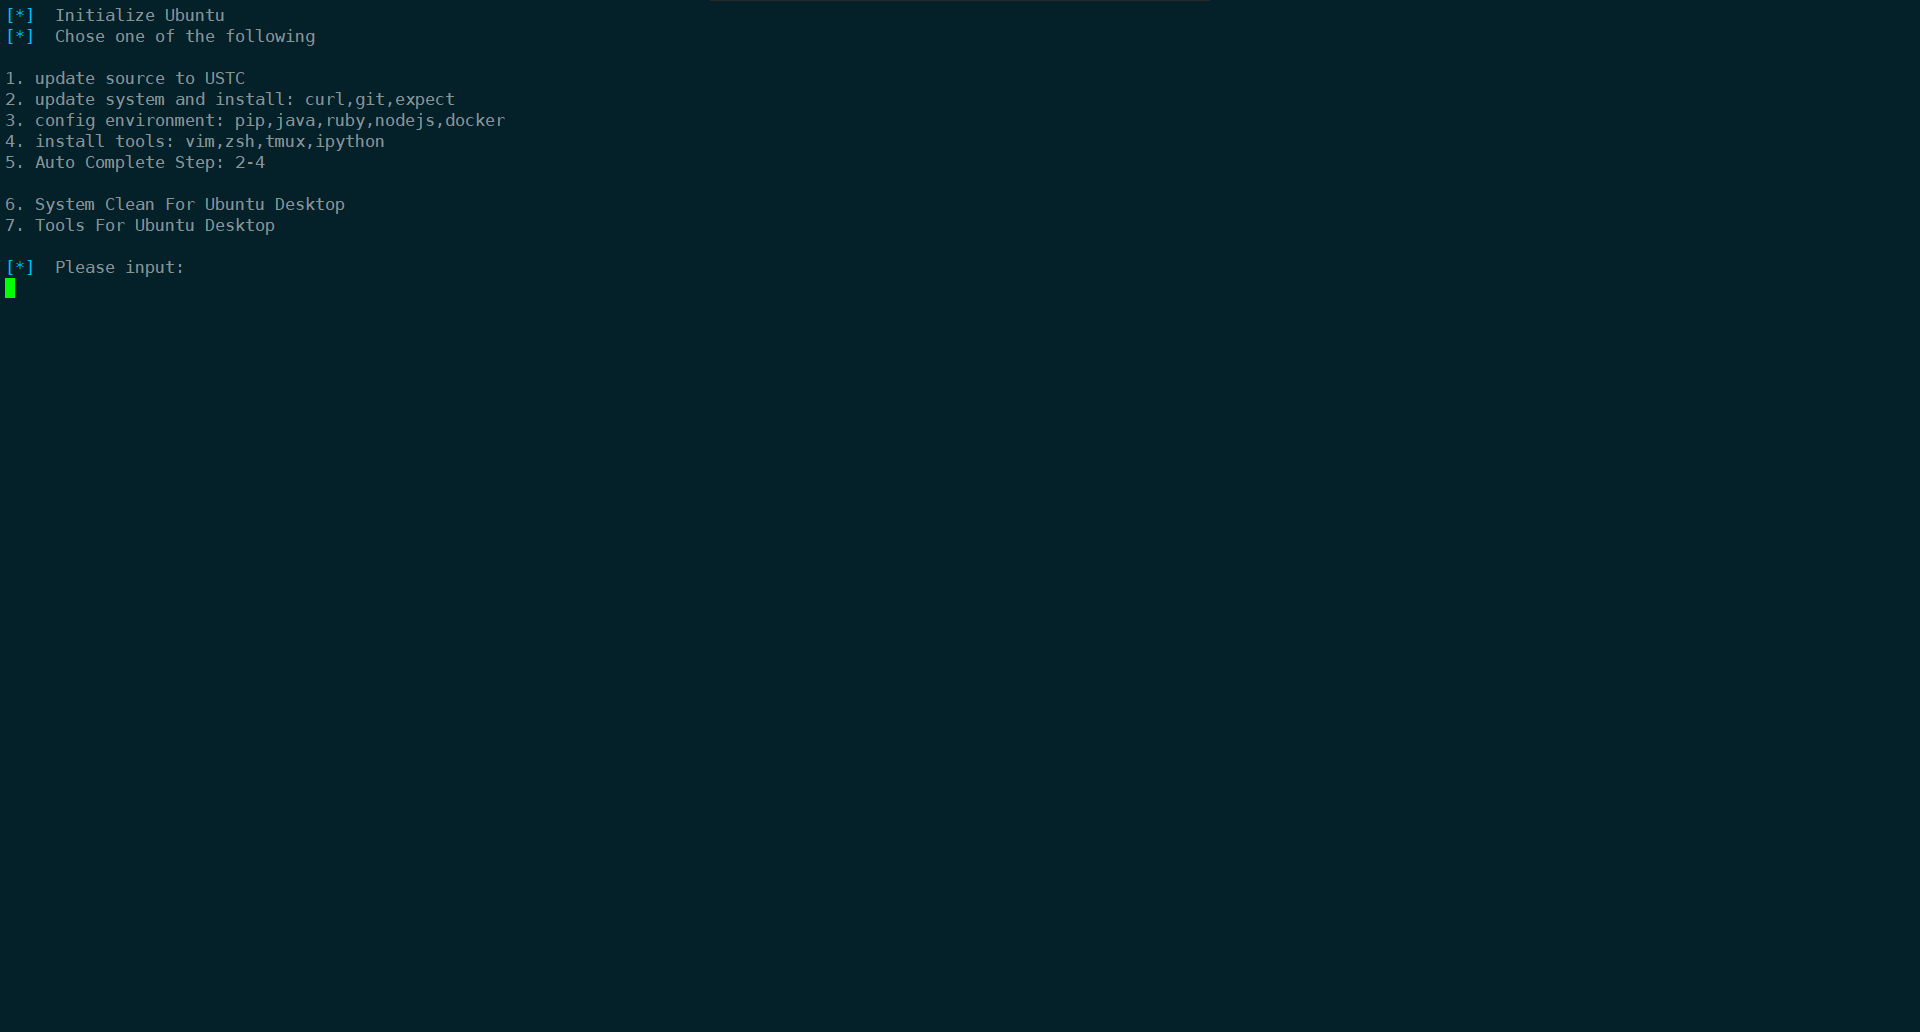
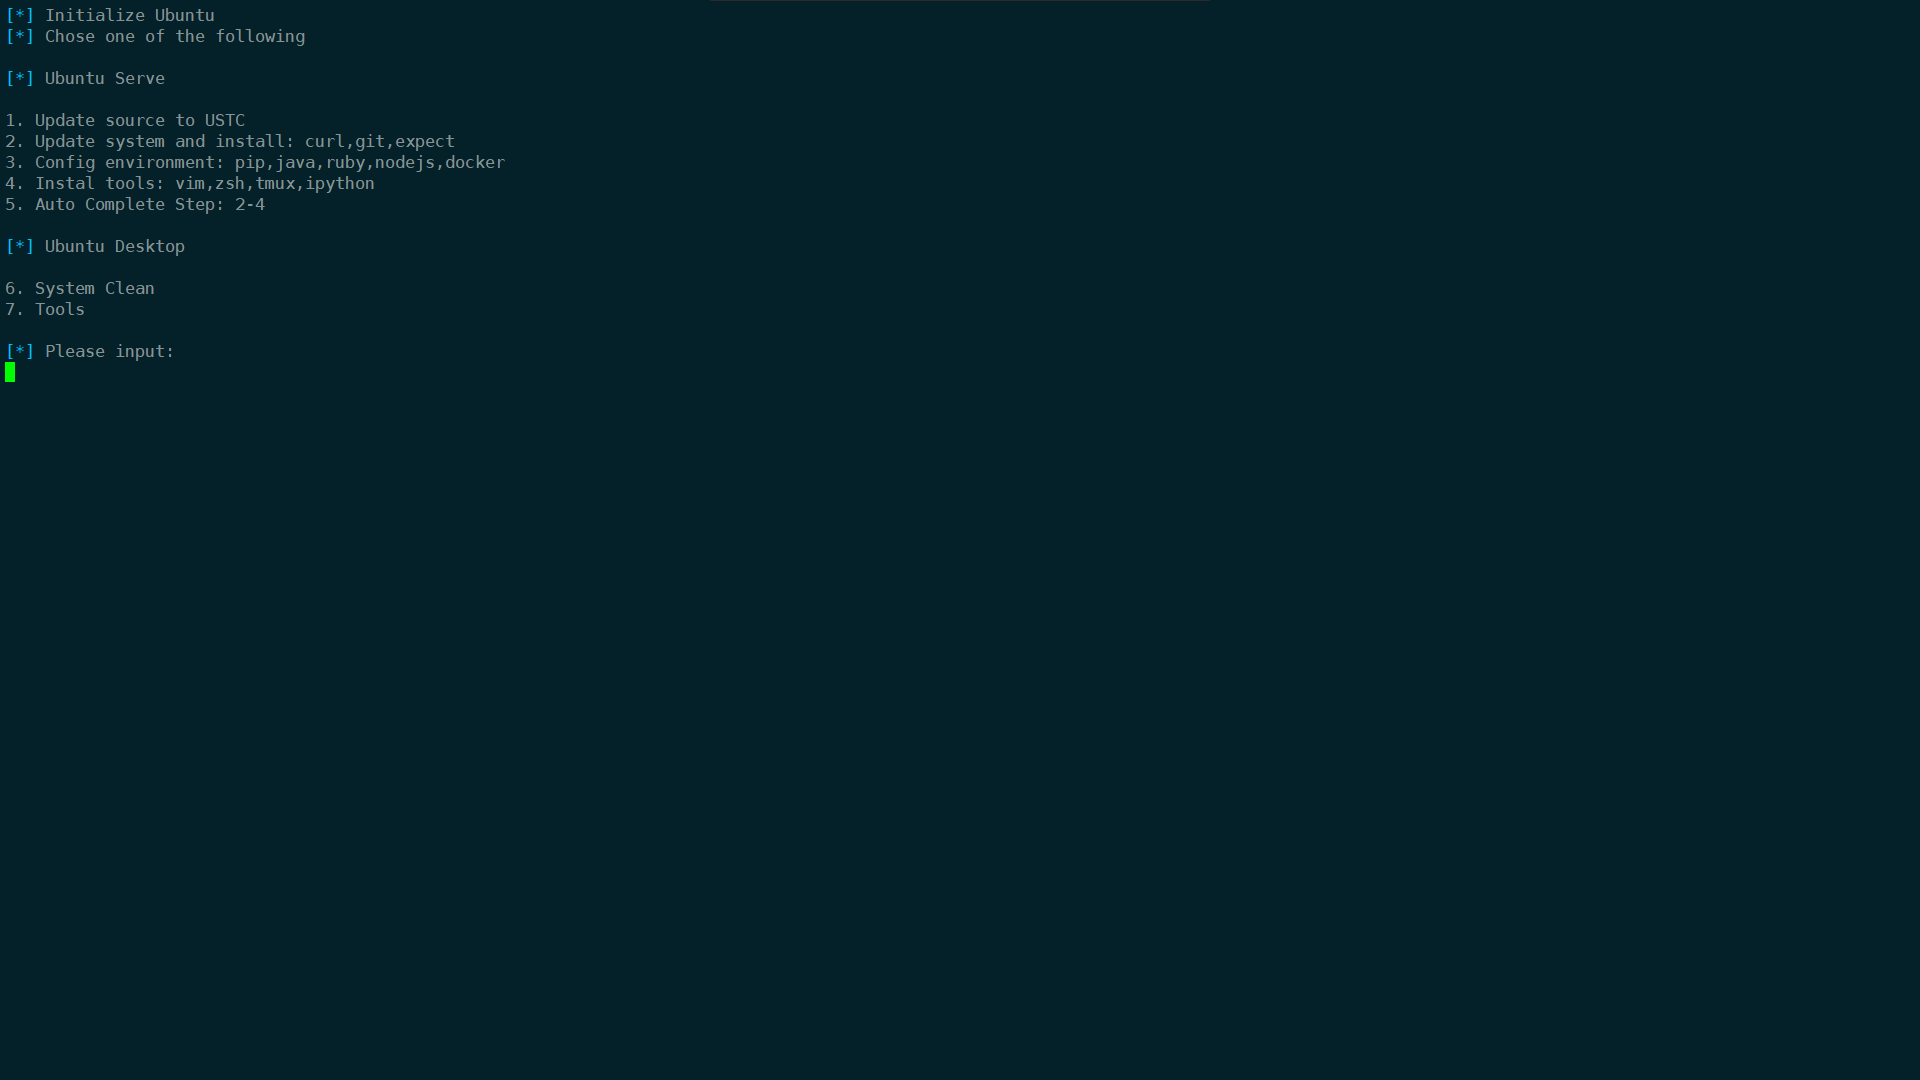
重写桌面版内容;更新README

Changed region(s): [[0.0, 0.0, 0.25, 0.3411]]

diff --git a/README.md b/README.md
@@ -13,6 +13,15 @@ Init Ubuntu
 
 ## 配置文件
 
+- source.list
+
+可以自己切换为Aliyun的,感觉最近Aliyun update有点慢 = =
+
+```sh
+sudo sed -i 's/[a-zA-Z]*.archive.ubuntu.com/mirrors.ustc.edu.cn/g' /etc/apt/sources.list
+# sudo sed -i 's/[a-zA-Z]*.archive.ubuntu.com/mirrors.aliyun.com/g' /etc/apt/sources.list
+```
+
 - tmux
 
 集成了个人最常用的几个功能   
@@ -40,5 +49,5 @@ echo -e "{\n\t\"registry-mirrors\": [\"https://docker.mirrors.ustc.edu.cn\"]\n}\
 
 ### Desktop图形化
 
-TODO
+![desktop](images/desktop.png) 
 
